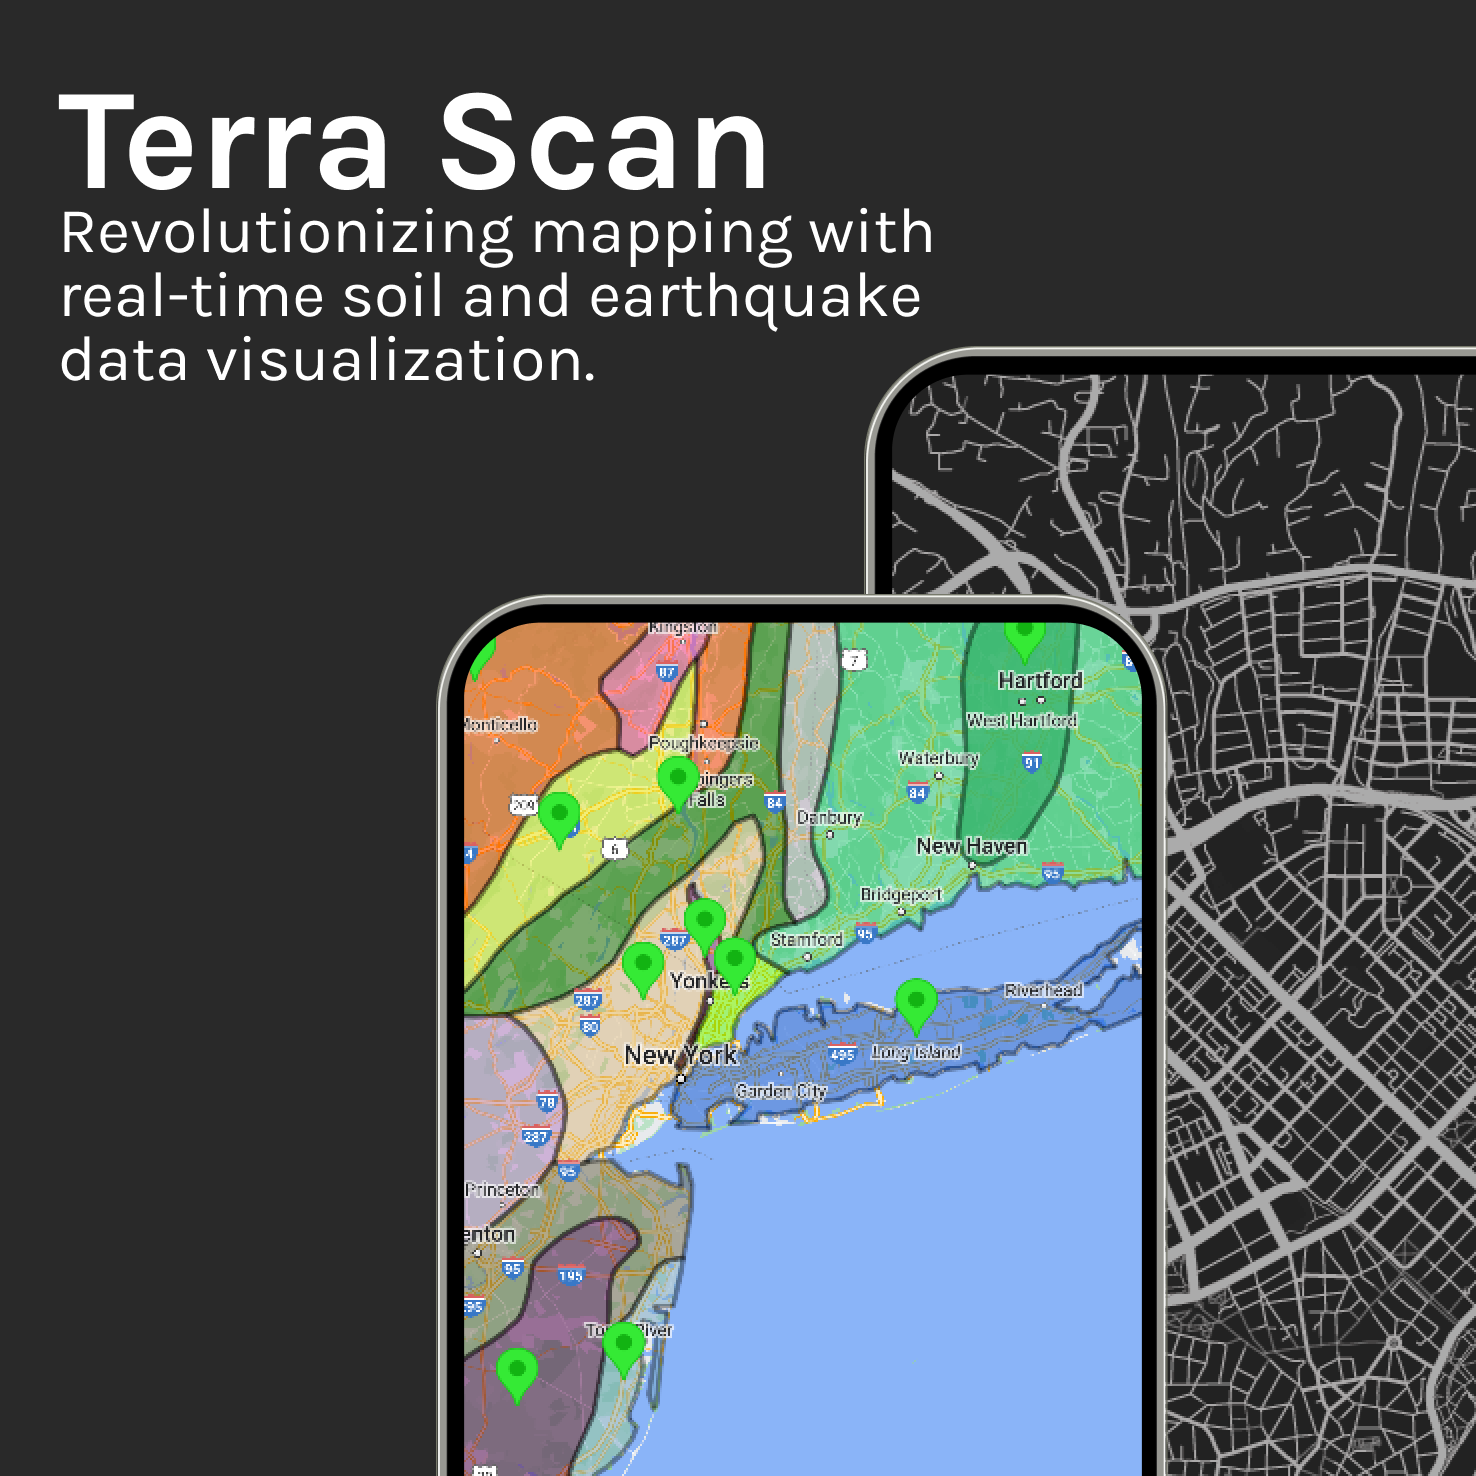
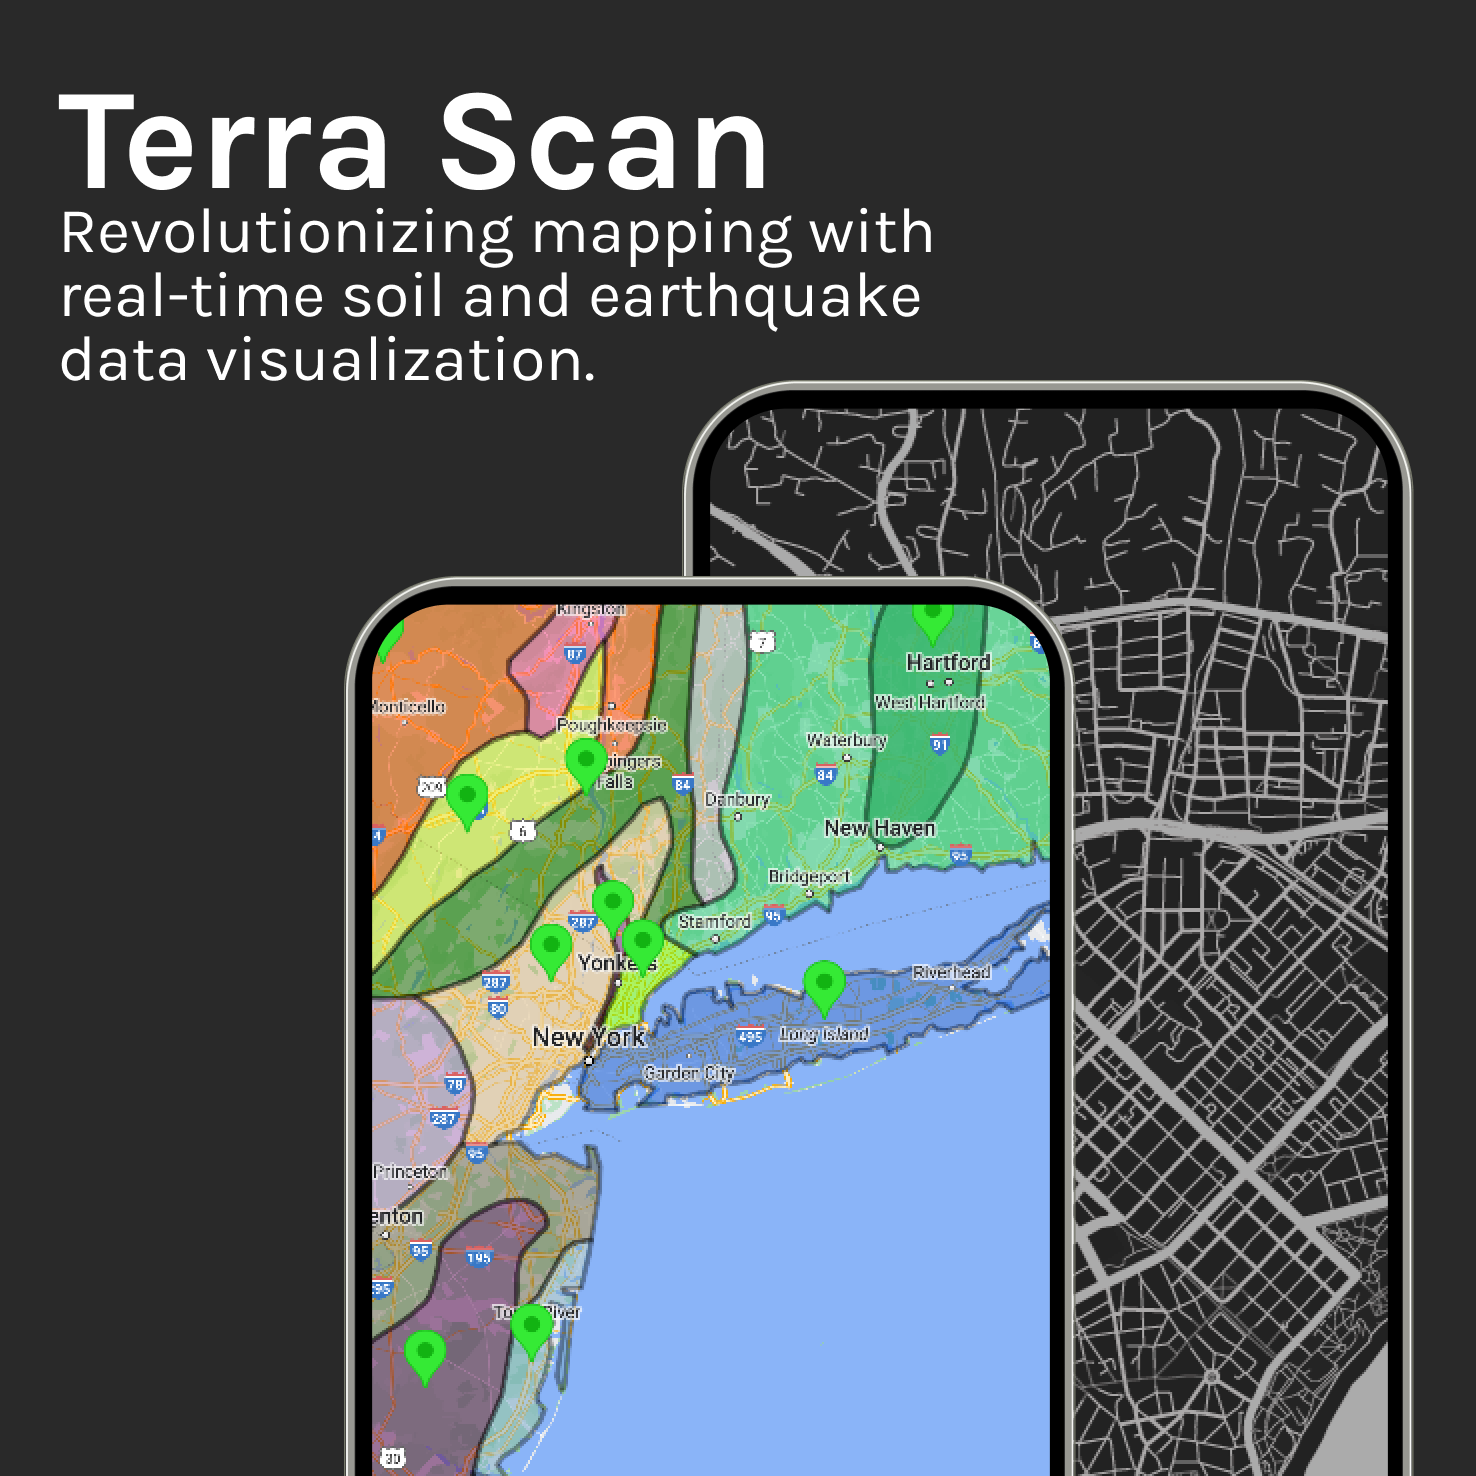
Added demo pages for chat unity and terra scna

diff --git a/astro-portfolio/cyan-comet/src/content/demo/Chat-Unity.md b/astro-portfolio/cyan-comet/src/content/demo/Chat-Unity.md
@@ -1,0 +1,78 @@
+---
+title: "Chat Unity"
+description: "A stand alone android chat app build with web sockets "
+pubDate: "Jul 25 2024"
+heroImage: "/demo/banner/chatunity.png"
+---
+
+## Packeges
+
+### Auth
+
+#### Log in
+
+```
+log: ivo@mail.com ivo12345678
+```
+
+```
+log: deme@mail.com deme12345678
+```
+
+### Register
+
+```
+reg: newUser@mail.com newuserpass12345678 08879465 ivan ivanov
+```
+
+### Messages
+
+#### Bulck order of messages
+
+For each of the orders paird whit a conversation id of the conversation
+
+```
+gms: userId conversation$order ...
+```
+
+```
+gms: 1 1@3
+```
+
+returns: All foudn messages. It will return emplty list if nothing was found.
+
+#### Send message
+
+```
+sms: userId converstion order $content
+```
+
+```
+sms: 1 1 10 $Alabala alo be
+```
+
+returns: only if problem whit the message.
+
+### Friends
+
+```
+gfr: userId
+```
+
+### Group
+
+```
+gug: userId
+```
+
+returns: set of all foud friends.
+
+## Database
+
+[insert.sql](https://github.com/user/repo/database/insert.sql)
+
+[drop.sql](https://github.com/user/repo/database/drop.sql)
+
+[select.sql](https://github.com/user/repo/database/selecs.sql)
+
+[create.sql](https://github.com/user/repo/database/create.sql)

diff --git a/astro-portfolio/cyan-comet/src/content/demo/Terra-Scan.md b/astro-portfolio/cyan-comet/src/content/demo/Terra-Scan.md
@@ -1,0 +1,6 @@
+---
+title: "Terra Scan"
+description: "Revolutionizing mapping with real-time soil and earthquake data visualization "
+pubDate: "Jul 25 2024"
+heroImage: "/demo/banner/terrascan.png"
+---

diff --git a/astro-portfolio/cyan-comet/src/content/demo/Fit-Fusion.md b/astro-portfolio/cyan-comet/src/content/demo/Fit-Fusion.md
@@ -1,7 +1,7 @@
 ---
 title: "Fit Fusion"
 description: "A Angular practice project"
-pubDate: "Jun 09 2023"
+pubDate: "Sep 01 2023"
 heroImage: "/demo/banner/fitfusion.png"
 ---
 
